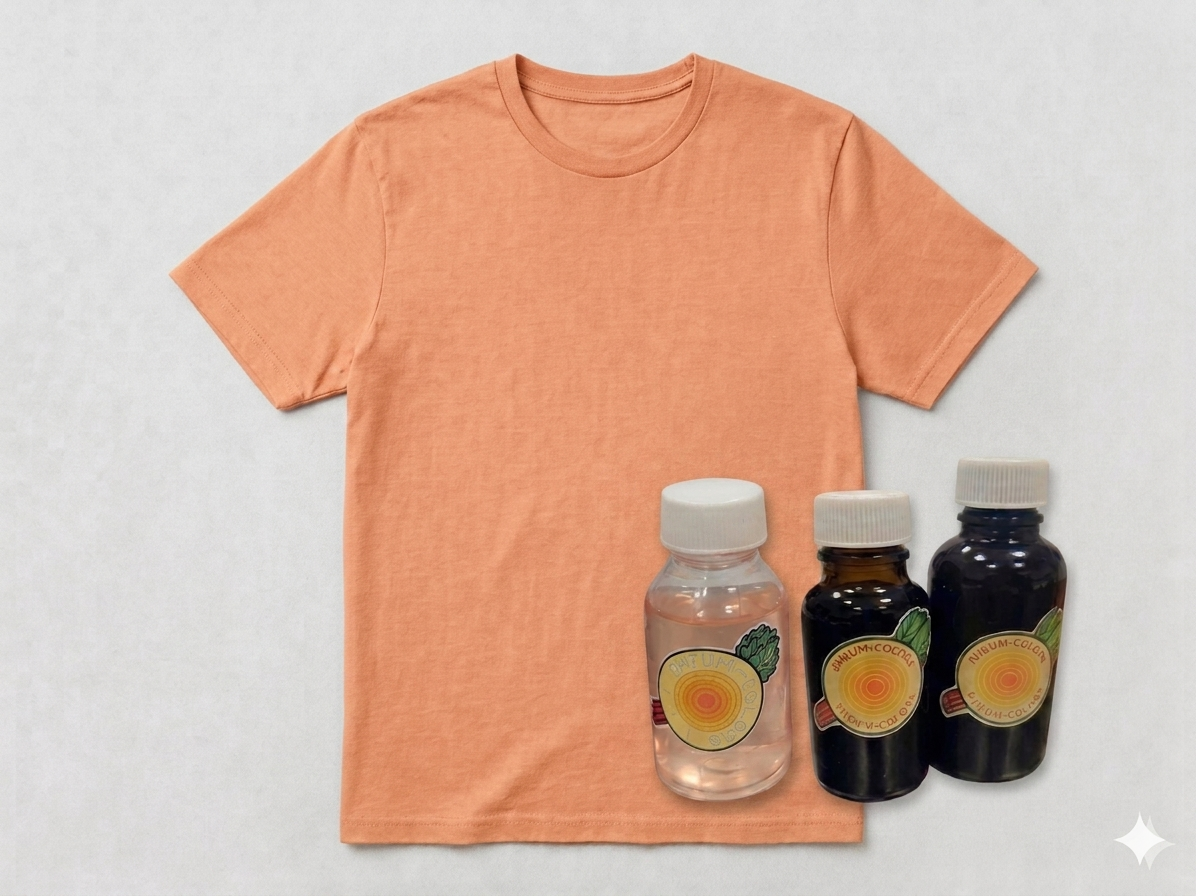
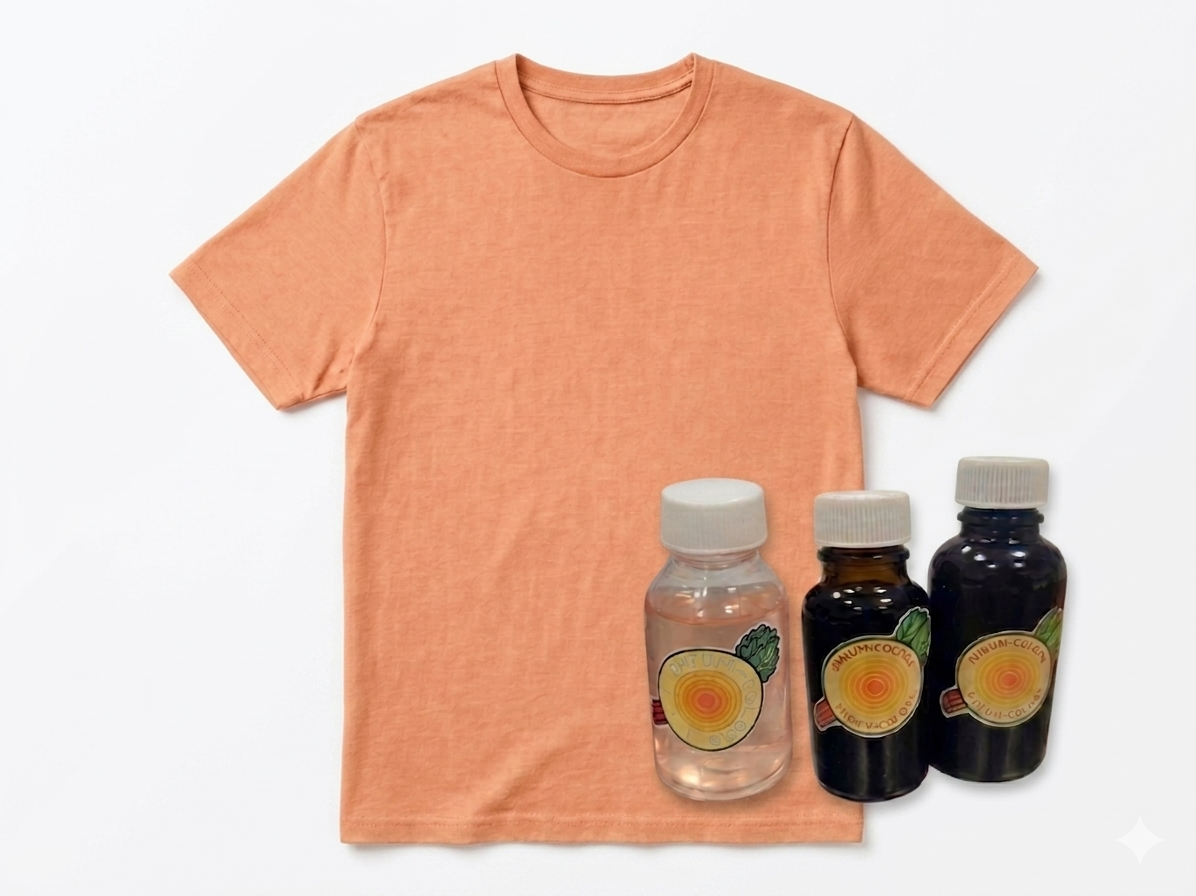
Add files via upload

diff --git a/index.html b/index.html
@@ -245,11 +245,12 @@
                 <summary>Integrantes:</summary>
                 <div class="contenido">
                   <ul>
-                    <li>Integrante 1</li>
-                    <li>Integrante 2</li>
-                    <li>Integrante 3</li>
-                    <li>Integrante 4</li>
-                    <li>Integrante 5</li>
+                    <li>Omar Guadalupe Urquieta Villaseñor</li>
+                    <li>Jazmin Guadalupe</li>
+                    <li>Marcelino Pan y vino</li>
+                    <li>Citlali</li>
+                    <li>El inge industrial</li>
+                    <li>Chava Macanas</li>
                   </ul>
                 </div>
               </details>
